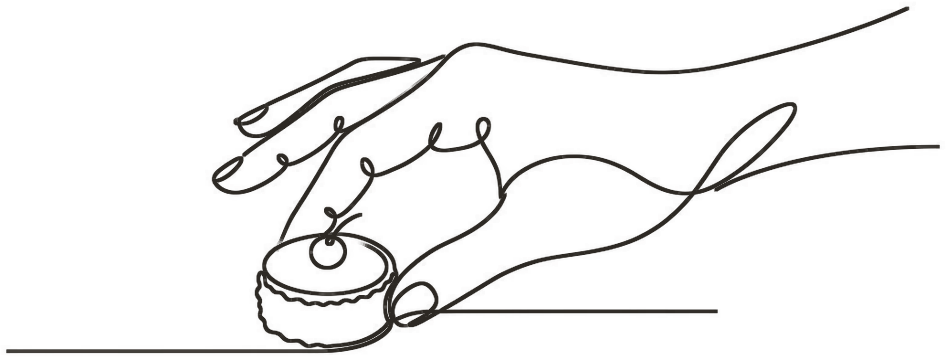
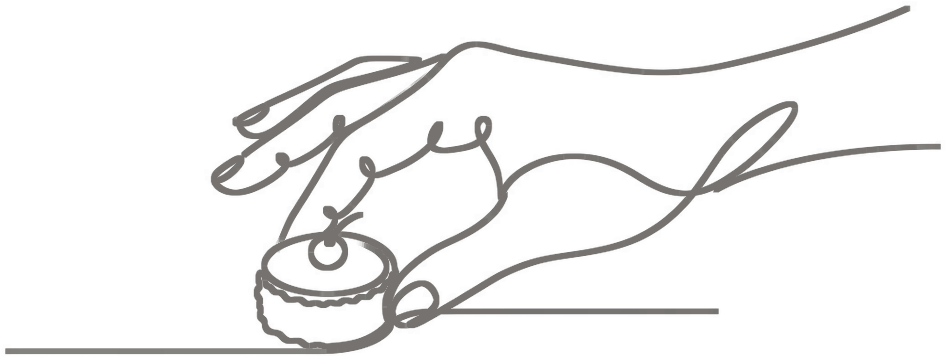
The Day: balance the overall darkness of every drawing; refresh image versions

diff --git a/index.html b/index.html
@@ -19,7 +19,7 @@
 <link rel="preconnect" href="https://fonts.googleapis.com" />
 <link rel="preconnect" href="https://fonts.gstatic.com" crossorigin />
 <link href="https://fonts.googleapis.com/css2?family=Cormorant+Garamond:ital,wght@0,400;0,500;0,600;1,400&family=Jost:wght@300;400;500;600;700&family=Pinyon+Script&family=Playfair+Display:ital,wght@0,500;0,600;1,500&family=Bodoni+Moda:ital,wght@0,500;0,600;1,500&family=Cinzel:wght@500;600&family=Marcellus&family=Prata&display=swap" rel="stylesheet" />
-<link rel="stylesheet" href="style.css?v=59" />
+<link rel="stylesheet" href="style.css?v=60" />
 </head>
 <body>
 

diff --git a/faq.html b/faq.html
@@ -9,7 +9,7 @@
 <link rel="preconnect" href="https://fonts.googleapis.com" />
 <link rel="preconnect" href="https://fonts.gstatic.com" crossorigin />
 <link href="https://fonts.googleapis.com/css2?family=Cormorant+Garamond:ital,wght@0,400;0,500;0,600;1,400&family=Jost:wght@300;400;500;600;700&family=Pinyon+Script&family=Playfair+Display:ital,wght@0,500;0,600;1,500&family=Bodoni+Moda:ital,wght@0,500;0,600;1,500&family=Cinzel:wght@500;600&family=Marcellus&family=Prata&display=swap" rel="stylesheet" />
-<link rel="stylesheet" href="style.css?v=59" />
+<link rel="stylesheet" href="style.css?v=60" />
 </head>
 <body>
 

diff --git a/registry.html b/registry.html
@@ -9,7 +9,7 @@
 <link rel="preconnect" href="https://fonts.googleapis.com" />
 <link rel="preconnect" href="https://fonts.gstatic.com" crossorigin />
 <link href="https://fonts.googleapis.com/css2?family=Cormorant+Garamond:ital,wght@0,400;0,500;0,600;1,400&family=Jost:wght@300;400;500;600;700&family=Pinyon+Script&family=Playfair+Display:ital,wght@0,500;0,600;1,500&family=Bodoni+Moda:ital,wght@0,500;0,600;1,500&family=Cinzel:wght@500;600&family=Marcellus&family=Prata&display=swap" rel="stylesheet" />
-<link rel="stylesheet" href="style.css?v=59" />
+<link rel="stylesheet" href="style.css?v=60" />
 </head>
 <body>
 

diff --git a/rsvp.html b/rsvp.html
@@ -9,7 +9,7 @@
 <link rel="preconnect" href="https://fonts.googleapis.com" />
 <link rel="preconnect" href="https://fonts.gstatic.com" crossorigin />
 <link href="https://fonts.googleapis.com/css2?family=Cormorant+Garamond:ital,wght@0,400;0,500;0,600;1,400&family=Jost:wght@300;400;500;600;700&family=Pinyon+Script&family=Playfair+Display:ital,wght@0,500;0,600;1,500&family=Bodoni+Moda:ital,wght@0,500;0,600;1,500&family=Cinzel:wght@500;600&family=Marcellus&family=Prata&display=swap" rel="stylesheet" />
-<link rel="stylesheet" href="style.css?v=59" />
+<link rel="stylesheet" href="style.css?v=60" />
 </head>
 <body>
 

diff --git a/the-day.html b/the-day.html
@@ -9,7 +9,7 @@
 <link rel="preconnect" href="https://fonts.googleapis.com" />
 <link rel="preconnect" href="https://fonts.gstatic.com" crossorigin />
 <link href="https://fonts.googleapis.com/css2?family=Cormorant+Garamond:ital,wght@0,400;0,500;0,600;1,400&family=Jost:wght@300;400;500;600;700&family=Pinyon+Script&family=Playfair+Display:ital,wght@0,500;0,600;1,500&family=Bodoni+Moda:ital,wght@0,500;0,600;1,500&family=Cinzel:wght@500;600&family=Marcellus&family=Prata&display=swap" rel="stylesheet" />
-<link rel="stylesheet" href="style.css?v=59" />
+<link rel="stylesheet" href="style.css?v=60" />
 </head>
 <body>
 

diff --git a/things-to-do.html b/things-to-do.html
@@ -9,7 +9,7 @@
 <link rel="preconnect" href="https://fonts.googleapis.com" />
 <link rel="preconnect" href="https://fonts.gstatic.com" crossorigin />
 <link href="https://fonts.googleapis.com/css2?family=Cormorant+Garamond:ital,wght@0,400;0,500;0,600;1,400&family=Jost:wght@300;400;500;600;700&family=Pinyon+Script&family=Playfair+Display:ital,wght@0,500;0,600;1,500&family=Bodoni+Moda:ital,wght@0,500;0,600;1,500&family=Cinzel:wght@500;600&family=Marcellus&family=Prata&display=swap" rel="stylesheet" />
-<link rel="stylesheet" href="style.css?v=59" />
+<link rel="stylesheet" href="style.css?v=60" />
 </head>
 <body>
 

diff --git a/travel.html b/travel.html
@@ -9,7 +9,7 @@
 <link rel="preconnect" href="https://fonts.googleapis.com" />
 <link rel="preconnect" href="https://fonts.gstatic.com" crossorigin />
 <link href="https://fonts.googleapis.com/css2?family=Cormorant+Garamond:ital,wght@0,400;0,500;0,600;1,400&family=Jost:wght@300;400;500;600;700&family=Pinyon+Script&family=Playfair+Display:ital,wght@0,500;0,600;1,500&family=Bodoni+Moda:ital,wght@0,500;0,600;1,500&family=Cinzel:wght@500;600&family=Marcellus&family=Prata&display=swap" rel="stylesheet" />
-<link rel="stylesheet" href="style.css?v=59" />
+<link rel="stylesheet" href="style.css?v=60" />
 </head>
 <body>
 

diff --git a/wedding-party.html b/wedding-party.html
@@ -9,7 +9,7 @@
 <link rel="preconnect" href="https://fonts.googleapis.com" />
 <link rel="preconnect" href="https://fonts.gstatic.com" crossorigin />
 <link href="https://fonts.googleapis.com/css2?family=Cormorant+Garamond:ital,wght@0,400;0,500;0,600;1,400&family=Jost:wght@300;400;500;600;700&family=Pinyon+Script&family=Playfair+Display:ital,wght@0,500;0,600;1,500&family=Bodoni+Moda:ital,wght@0,500;0,600;1,500&family=Cinzel:wght@500;600&family=Marcellus&family=Prata&display=swap" rel="stylesheet" />
-<link rel="stylesheet" href="style.css?v=59" />
+<link rel="stylesheet" href="style.css?v=60" />
 </head>
 <body>
 
